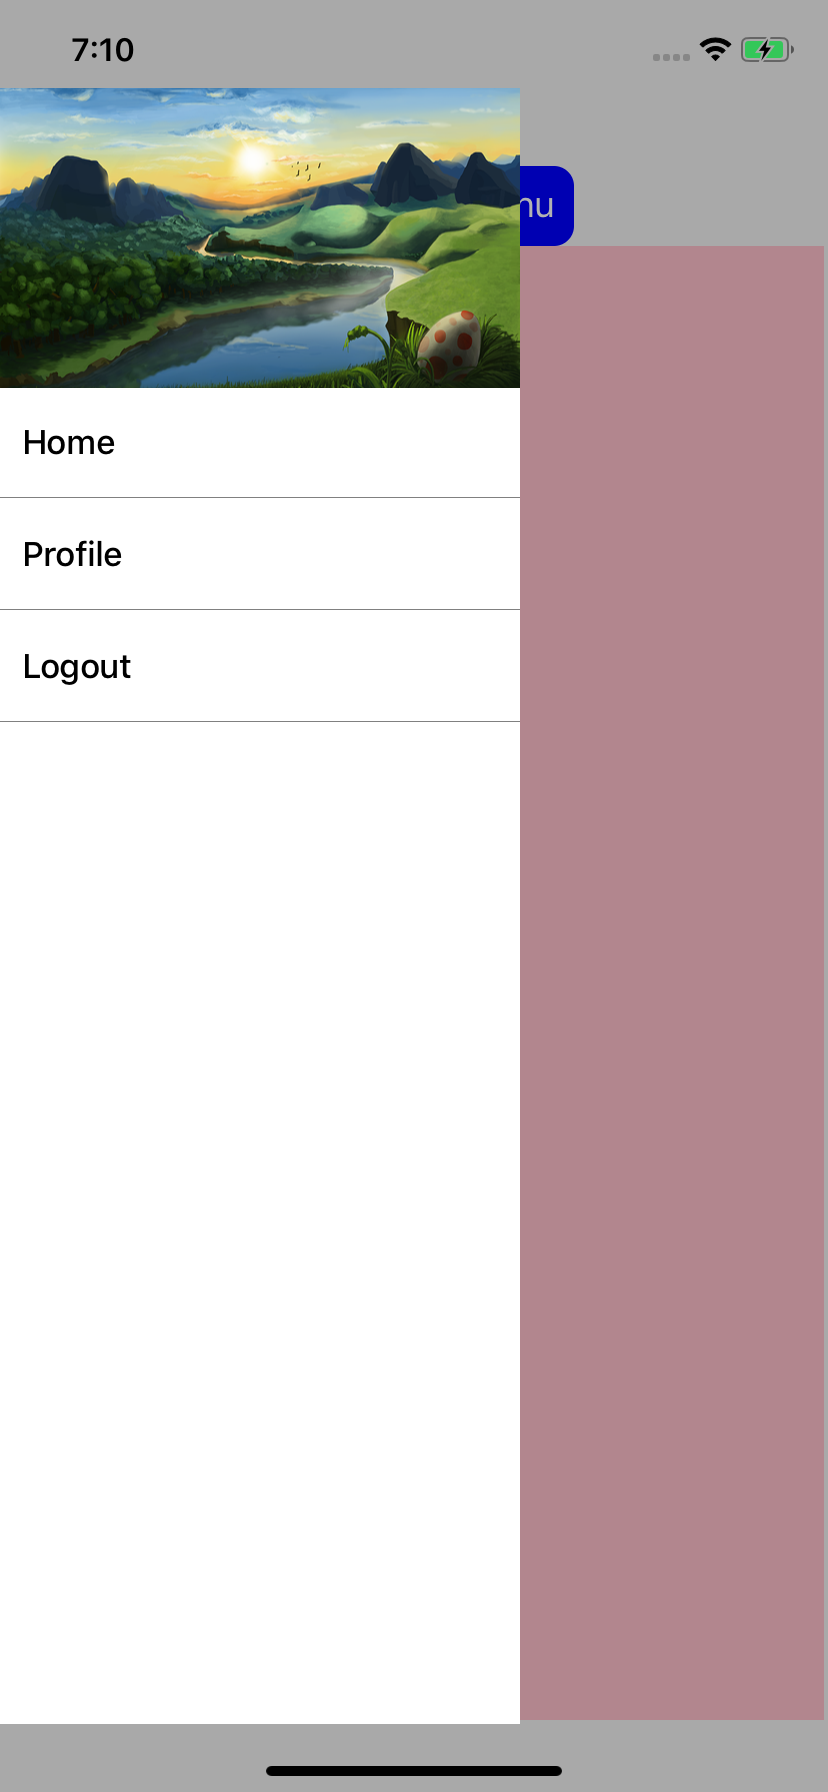
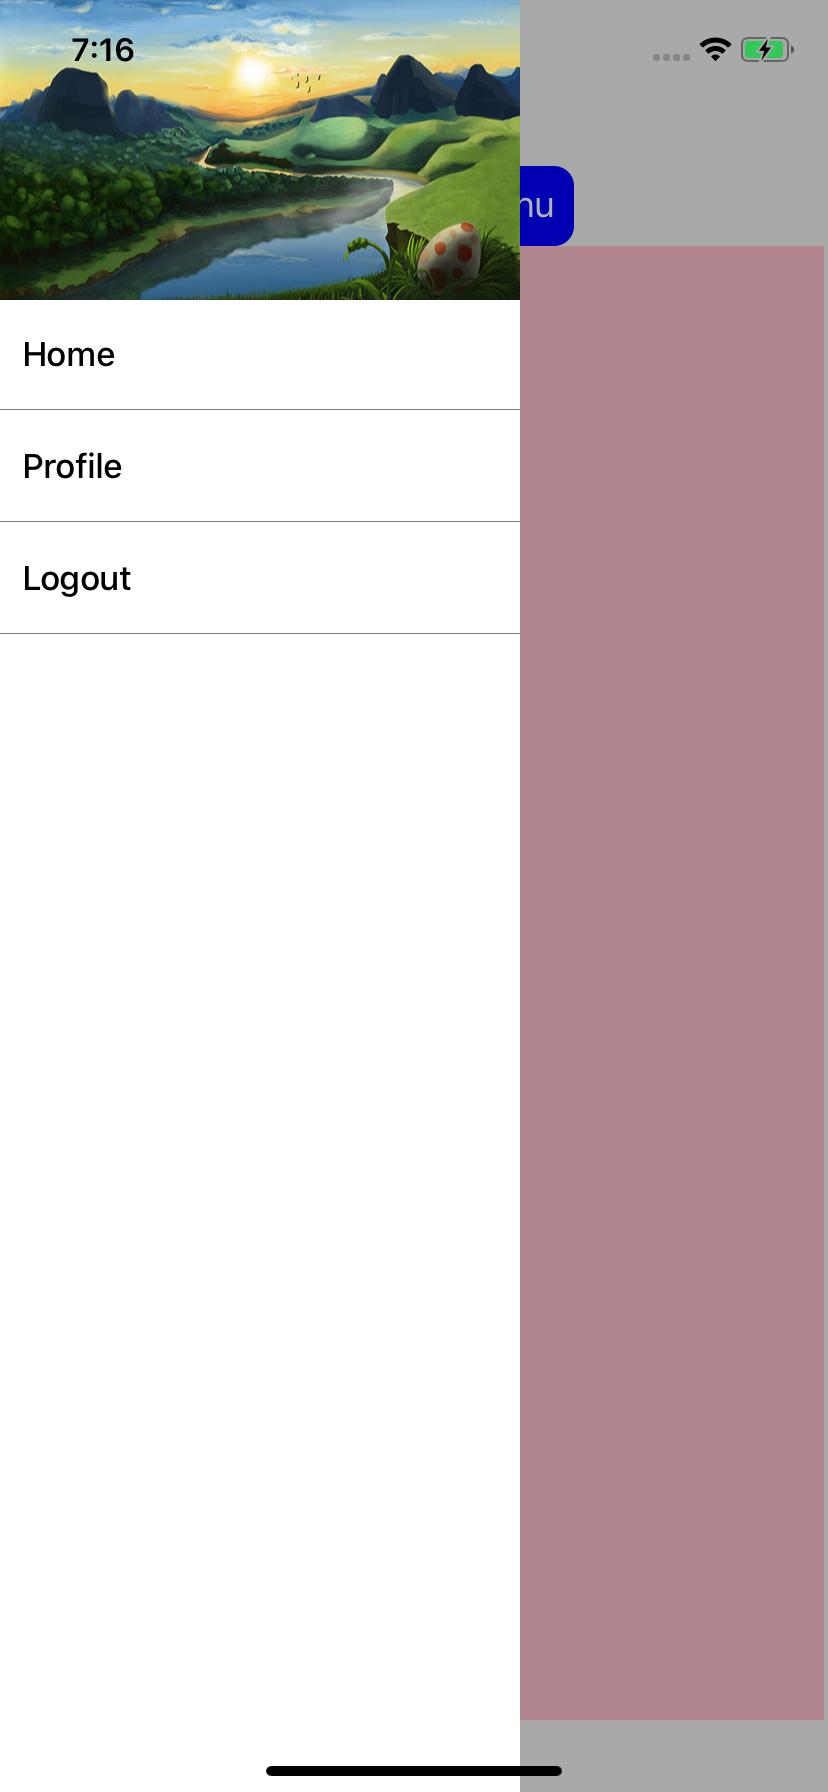
change screen shoot

Changed region(s): [[0.0, 0.0, 0.6341, 0.4062], [0.0, 0.9375, 0.6341, 1.0]]

diff --git a/components/base-page.js b/components/base-page.js
@@ -40,7 +40,7 @@ export default class BasePage extends React.Component {
 
   _renderLeftDrawerContent = () => {
     return (
-      <SafeAreaView style={styles.drawerContainer}>
+      <View style={styles.drawerContainer}>
         <View style={styles.drawerBody}>
           {/* DRAWER IMAGE */}
           <View style={styles.headerImageContainer}>
@@ -73,7 +73,7 @@ export default class BasePage extends React.Component {
             </TouchableOpacity>
           </View>
         </View>
-      </SafeAreaView>
+      </View>
     );
   };
 
